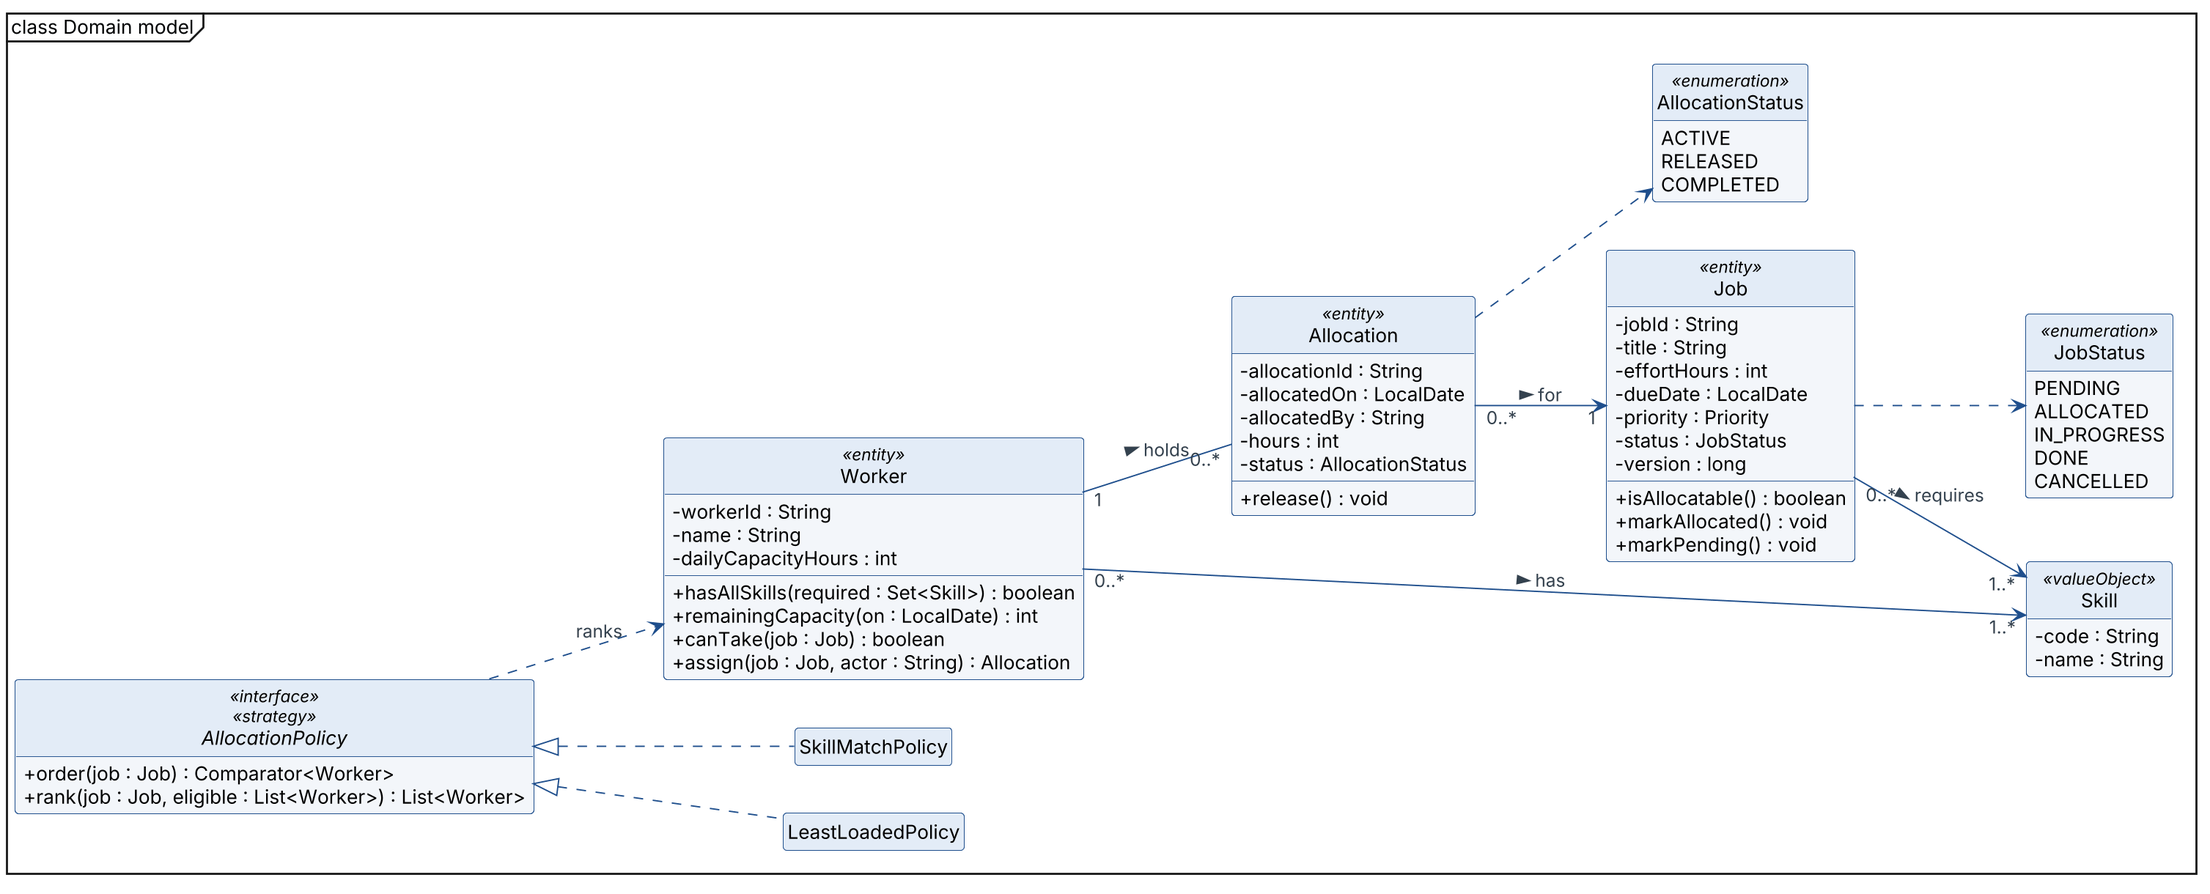
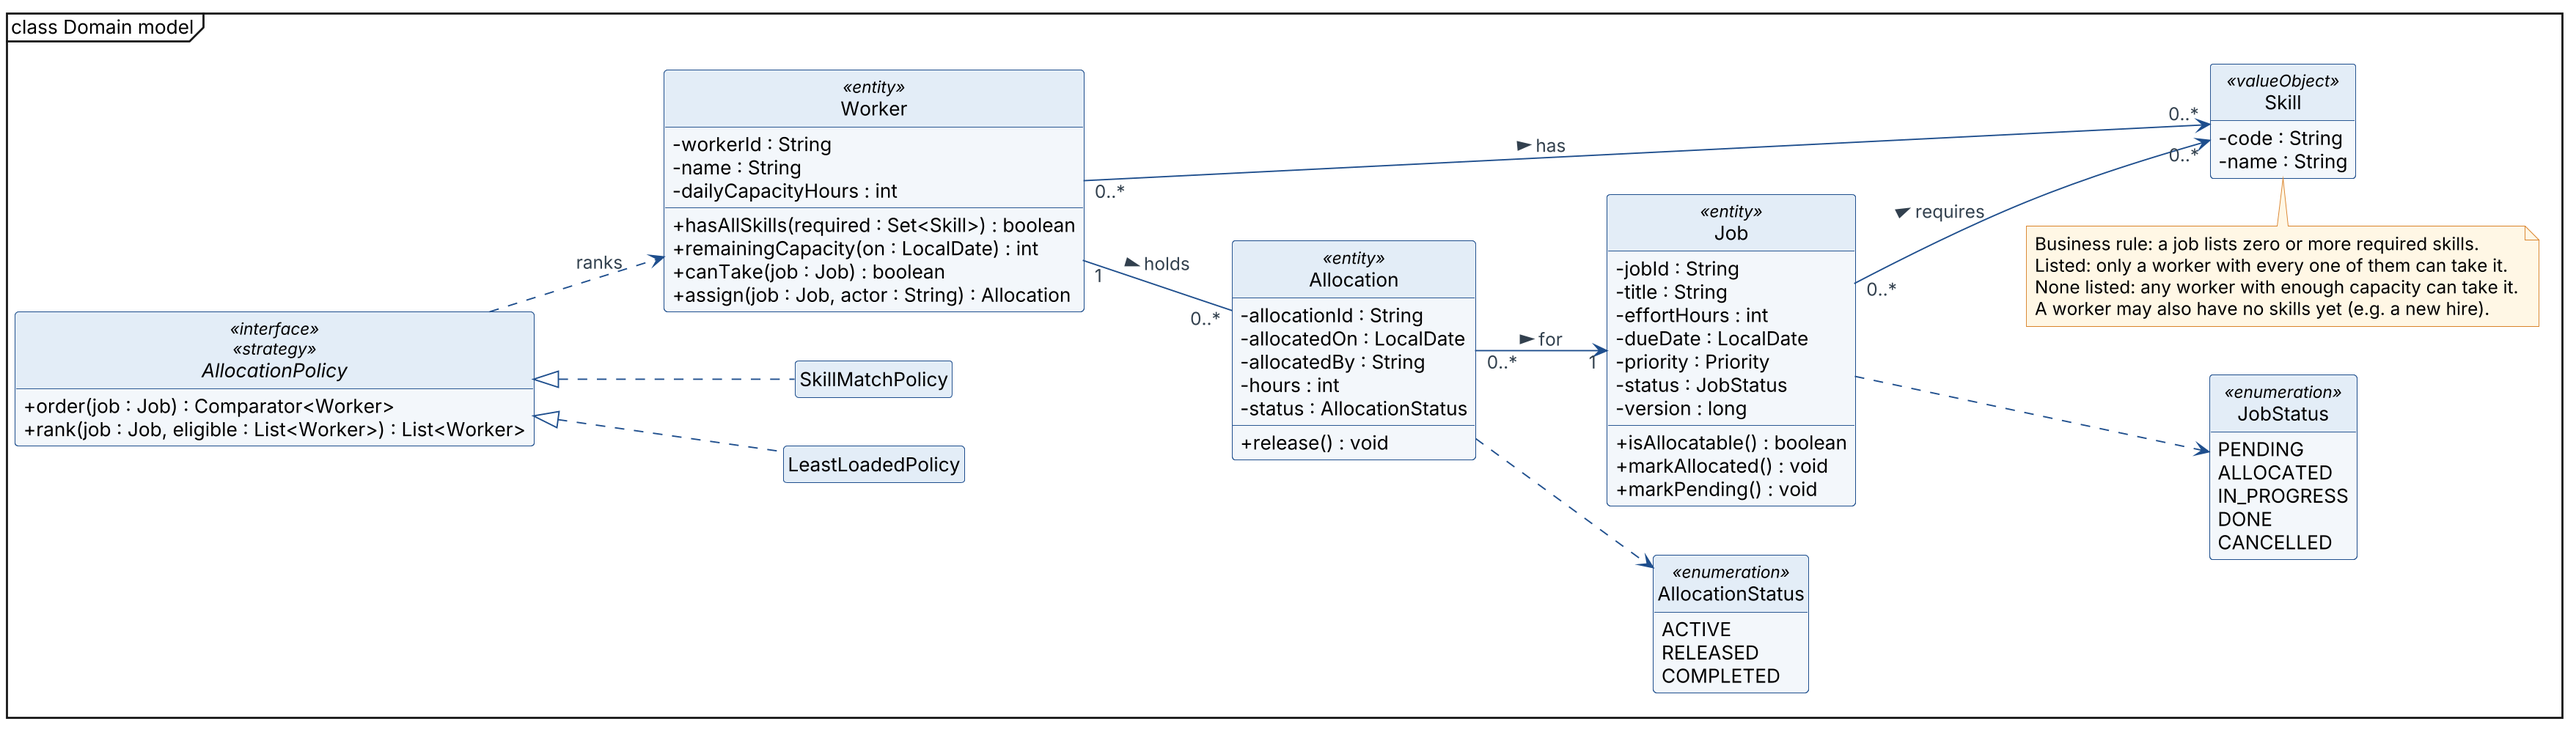
feat(domain): a job may require zero or more skills (0..*); state the rule in the model, walkthrough, slides and user guide

diff --git a/app/src/main/java/edu/ooad/joballoc/web/view/BoardView.java b/app/src/main/java/edu/ooad/joballoc/web/view/BoardView.java
@@ -24,6 +24,9 @@ import static edu.ooad.joballoc.web.view.Html.esc;
  */
 public final class BoardView {
 
+    /** Shown when a job requires no particular skill. */
+    static final String NO_SKILL_NEEDED = "no specific skill (any worker)";
+
     /** Everything the board needs: the filter, the snapshot from the facade, and flash messages. */
     public record Model(Actor actor, String csrf, JobCriteria criteria, BoardData data, String message, String error) {
         public LocalDate date() { return criteria.date(); }
@@ -97,6 +100,11 @@ public final class BoardView {
         return b.toString();
     }
 
+    /** Required skills for display; a job may require none (then any worker qualifies). */
+    static String skillsOrAny(Job j) {
+        return j.getRequiredSkills().isEmpty() ? NO_SKILL_NEEDED : String.join(", ", j.getRequiredSkills());
+    }
+
     /** Bootstrap badge colour per priority: the most urgent stands out. */
     private static String priorityBadge(Priority p) {
         String colour = switch (p) {
@@ -133,7 +141,7 @@ public final class BoardView {
                         .append(" in auto-allocate\"></td>");
             }
             b.append("<td class=\"nowrap fw-semibold\">").append(esc(j.getJobId())).append("</td><td>").append(esc(j.getTitle()))
-                    .append("</td><td class=\"d-none d-md-table-cell small\">").append(esc(String.join(", ", j.getRequiredSkills())))
+                    .append("</td><td class=\"d-none d-md-table-cell small\">").append(esc(skillsOrAny(j)))
                     .append("</td><td>").append(j.getEffortHours()).append("h</td><td class=\"nowrap d-none d-sm-table-cell\">")
                     .append(j.getDueDate()).append("</td><td>").append(priorityBadge(j.getPriority())).append("</td><td class=\"text-end\">")
                     .append("<a class=\"btn btn-sm ").append(sel ? "btn-primary" : "btn-outline-primary").append("\" href=\"")
@@ -162,7 +170,7 @@ public final class BoardView {
         Job j = m.selected();
         b.append(header("cand-h", "Eligible Workers for " + esc(j.getJobId()), null))
                 .append("<p class=\"small text-body-secondary px-3 pt-2 mb-2\">").append(esc(j.getTitle()))
-                .append(" · needs ").append(esc(String.join(", ", j.getRequiredSkills()))).append(" · ")
+                .append(" · needs ").append(esc(skillsOrAny(j))).append(" · ")
                 .append(j.getEffortHours()).append("h on ").append(j.getWorkDate()).append("</p>");
         b.append("<div class=\"table-responsive\"><table id=\"candidates\" class=\"table table-sm align-middle mb-0\">"
                 + "<thead class=\"table-light\"><tr><th scope=\"col\">Worker</th>"

diff --git a/app/src/test/java/edu/ooad/joballoc/domain/JobTest.java b/app/src/test/java/edu/ooad/joballoc/domain/JobTest.java
@@ -22,12 +22,19 @@ public class JobTest {
     }
 
     @Test
-    public void rejectsInvalidEffortAndMissingSkills() {
+    public void rejectsInvalidEffortAndId() {
         LocalDate d = LocalDate.of(2026, 11, 5);
         assertThrows(IllegalArgumentException.class, () -> new Job("J1", "t", Set.of("X"), 0, d, d, Priority.LOW));
         assertThrows(IllegalArgumentException.class, () -> new Job("J1", "t", Set.of("X"), 25, d, d, Priority.LOW));
-        assertThrows(IllegalArgumentException.class, () -> new Job("J1", "t", Set.of(), 2, d, d, Priority.LOW));
         assertThrows(IllegalArgumentException.class, () -> new Job(" ", "t", Set.of("X"), 2, d, d, Priority.LOW));
+        assertThrows(NullPointerException.class, () -> new Job("J1", "t", null, 2, d, d, Priority.LOW));
+    }
+
+    @Test
+    public void aJobMayRequireNoSkill() {
+        Job j = job("J1", 2, Priority.LOW);
+        assertTrue(j.getRequiredSkills().isEmpty());
+        assertTrue(j.isAllocatable());
     }
 
     @Test

diff --git a/app/src/test/java/edu/ooad/joballoc/storage/InMemoryStorageTest.java b/app/src/test/java/edu/ooad/joballoc/storage/InMemoryStorageTest.java
@@ -1,5 +1,6 @@
 package edu.ooad.joballoc.storage;
 
+import edu.ooad.joballoc.TestData;
 import edu.ooad.joballoc.config.AppConfig;
 import edu.ooad.joballoc.domain.AuditEvent;
 import edu.ooad.joballoc.domain.Job;
@@ -60,6 +61,13 @@ public class InMemoryStorageTest {
     private static List<String> ids(String sql, String regex) {
         Matcher m = Pattern.compile(regex).matcher(sql);
         return m.results().map(r -> r.group(1)).toList();
+    }
+
+    @Test
+    public void aJobThatRequiresNoSkillRoundTrips() {
+        DAOFactory daos = new InMemoryStorage().daos();
+        daos.jobDao().save(new Job("M-0", "General task", Set.of(), 1, TestData.DAY, TestData.DAY, Priority.LOW));
+        assertTrue(daos.jobDao().findById("M-0").orElseThrow().getRequiredSkills().isEmpty());
     }
 
     @Test

diff --git a/app/src/main/java/edu/ooad/joballoc/domain/Job.java b/app/src/main/java/edu/ooad/joballoc/domain/Job.java
@@ -48,9 +48,8 @@ public class Job {
         if (effortHours < 1 || effortHours > HOURS_PER_DAY) {
             throw new IllegalArgumentException("effortHours must be between 1 and " + HOURS_PER_DAY);
         }
-        if (requiredSkills == null || requiredSkills.isEmpty()) {
-            throw new IllegalArgumentException("a job needs at least one required skill");
-        }
+        // Business rule: a job may require no skill at all (0..*); then any worker with capacity can take it.
+        Objects.requireNonNull(requiredSkills, "requiredSkills (use an empty set when no skill is needed)");
         this.jobId = jobId;
         this.title = Objects.requireNonNull(title, "title");
         this.requiredSkills = new LinkedHashSet<>(requiredSkills);

diff --git a/app/src/test/java/edu/ooad/joballoc/domain/WorkerTest.java b/app/src/test/java/edu/ooad/joballoc/domain/WorkerTest.java
@@ -37,6 +37,19 @@ public class WorkerTest {
     }
 
     @Test
+    public void anyWorkerWithCapacityCanTakeAJobThatRequiresNoSkill() {
+        Job general = job("J1", 2, Priority.LOW);
+        assertTrue(worker("W1", 8).canTake(general));
+        assertTrue(worker("W2", 8, "LINUX").canTake(general));
+    }
+
+    @Test
+    public void aWorkerWithoutSkillsCannotTakeAJobThatRequiresOne() {
+        Worker trainee = worker("W1", 8);
+        assertFalse(trainee.canTake(job("J1", 2, Priority.LOW, "LINUX")));
+    }
+
+    @Test
     public void cannotExceedDailyCapacity() {
         Worker w = worker("W1", 6, "LINUX");
         w.assign(job("J1", 4, Priority.LOW, "LINUX"), "sam", now);

diff --git a/app/src/test/java/edu/ooad/joballoc/business/PolicyTest.java b/app/src/test/java/edu/ooad/joballoc/business/PolicyTest.java
@@ -41,6 +41,14 @@ public class PolicyTest {
     }
 
     @Test
+    public void skillMatchKeepsSpecialistsFreeForAJobThatRequiresNoSkill() {
+        Worker trainee = worker("W-T", 8);
+        Worker specialist = worker("W-S", 8, "DBA");
+        Job general = job("J", 2, Priority.LOW);
+        assertEquals(List.of("W-T", "W-S"), ids(factory.forName("SKILL_MATCH"), general, List.of(specialist, trainee)));
+    }
+
+    @Test
     public void factoryDefaultsAndRejectsUnknown() {
         assertEquals(PolicyFactory.DEFAULT, factory.forName(null).name());
         assertEquals(List.of("SKILL_MATCH", "LEAST_LOADED", "FIRST_FIT"), factory.names());

diff --git a/app/src/test/java/edu/ooad/joballoc/web/view/BoardViewTest.java b/app/src/test/java/edu/ooad/joballoc/web/view/BoardViewTest.java
@@ -1,0 +1,21 @@
+package edu.ooad.joballoc.web.view;
+
+import edu.ooad.joballoc.domain.Priority;
+import org.junit.Test;
+
+import static edu.ooad.joballoc.TestData.job;
+import static org.junit.Assert.assertEquals;
+
+/** The board states a job's skill requirement plainly, including "none". */
+public class BoardViewTest {
+
+    @Test
+    public void listsRequiredSkills() {
+        assertEquals("LINUX", BoardView.skillsOrAny(job("J1", 2, Priority.LOW, "LINUX")));
+    }
+
+    @Test
+    public void saysWhenAJobRequiresNoSkill() {
+        assertEquals(BoardView.NO_SKILL_NEEDED, BoardView.skillsOrAny(job("J1", 2, Priority.LOW)));
+    }
+}

diff --git a/app/src/test/java/edu/ooad/joballoc/it/PersistenceIT.java b/app/src/test/java/edu/ooad/joballoc/it/PersistenceIT.java
@@ -66,6 +66,12 @@ public class PersistenceIT {
     }
 
     @Test
+    public void aJobThatRequiresNoSkillRoundTrips() {
+        daos.jobDao().save(new Job("IT-0", "General task", Set.of(), 1, DAY, DAY, Priority.LOW));
+        assertTrue(daos.jobDao().findById("IT-0").orElseThrow().getRequiredSkills().isEmpty());
+    }
+
+    @Test
     public void mapsAllColumnTypesAndCollectionTables() {
         Job j = new Job("IT-1", "Map me", Set.of("LINUX", "GO"), 3, DAY, DAY.plusDays(2), Priority.HIGH);
         daos.jobDao().save(j);

diff --git a/app/src/test/java/edu/ooad/joballoc/AllUnitTests.java b/app/src/test/java/edu/ooad/joballoc/AllUnitTests.java
@@ -15,6 +15,7 @@ import org.junit.runners.Suite;
         edu.ooad.joballoc.web.WebUnitTest.class,
         edu.ooad.joballoc.web.http.HttpLayerTest.class,
         edu.ooad.joballoc.web.view.StaticAssetsTest.class,
+        edu.ooad.joballoc.web.view.BoardViewTest.class,
         edu.ooad.joballoc.web.sso.IdTokenVerifierTest.class,
         edu.ooad.joballoc.persistence.ConnectionPoolTest.class,
         edu.ooad.joballoc.persistence.DialectTest.class,

diff --git a/docs/ooad-walkthrough.md b/docs/ooad-walkthrough.md
@@ -35,10 +35,12 @@ Rule: dependencies point downward only.
 
 ## 3. Operation contract: `allocate(jobId, workerId, jobVersion, actor) : Allocation`
 
+**Business rule (skills).** A job states whether it needs particular skills: it may list zero or more required skills. If it lists any, only a worker who has every one of them can take it. If it lists none, the job needs no specific skill and any worker with enough remaining capacity can take it. A worker may likewise have zero or more skills (a new hire may have none yet), so both associations are `0..*` in the domain model.
+
 **Pre-conditions**
 
 - The job exists and its status is PENDING.
-- The worker has every required skill.
+- The worker has every skill the job requires (trivially true when the job requires none).
 - The worker's remaining capacity is at least the job's effort.
 - The actor holds the SUPERVISOR role.
 - `jobVersion` matches the stored version.
@@ -143,7 +145,7 @@ How the design achieves this:
 4. **Dependency inversion**: services depend on `DAOFactory`, the DAO interfaces and `TransactionRunner`, all owned by the business tier; `ArchitectureTest` fails the build if any business class imports a storage implementation.
 5. **Fail fast**: any other `DB_URL` (for example Oracle) is rejected at start-up with the list of supported forms.
 
-Evidence that the switch works: the same 34 integration tests pass on PostgreSQL 16 and MySQL 8.4, and 22 HTTP/API tests pass on in-memory storage (`make test-int-all`); `make db-copy` copies all data between any two storages. Diagrams: `27-sql-dialect`, `28-storage-family`; slides "One codebase, two databases" and "Three storages, one switch".
+Evidence that the switch works: the same 35 integration tests pass on PostgreSQL 16 and MySQL 8.4, and 22 HTTP/API tests pass on in-memory storage (`make test-int-all`); `make db-copy` copies all data between any two storages. Diagrams: `27-sql-dialect`, `28-storage-family`; slides "One codebase, two databases" and "Three storages, one switch".
 
 **Discussion:** what would adding Oracle need? (One dialect class, one entry in `DialectFactory`, one folder of migrations, the driver jar and its licence entry; the tests then run against it unchanged.)
 

diff --git a/app/README.md b/app/README.md
@@ -27,9 +27,9 @@ No Docker? Install PostgreSQL 14+ locally and run `make db-setup` once instead.
 
 | Command | What it does |
 |---|---|
-| `make test` | 80 unit tests: domain rules, policies, service contracts, proxy chain, security, HTTP layer, Singleton, configuration, OpenAPI contract, architecture and naming rules, pinned UI assets and CSP-safe views, SQL dialects, migration splitting, in-memory storage (rollback, thread safety, seed drift), data copy, ID-token verification, SSO account linking (no database) |
-| `make test-int` | 34 integration tests against PostgreSQL: ORM, optimistic locking, append-only audit, migration checksums, data copy, HTTP API, OWASP checks, login CSRF, SSO against a test identity provider |
-| `make test-int-mysql` / `test-int-memory` / `test-int-all` | The same tests on MySQL (34) / in memory (22, SQL-only tests skipped) / on all three |
+| `make test` | 87 unit tests: domain rules, policies, service contracts, proxy chain, security, HTTP layer, Singleton, configuration, OpenAPI contract, architecture and naming rules, pinned UI assets and CSP-safe views, SQL dialects, migration splitting, in-memory storage (rollback, thread safety, seed drift), data copy, ID-token verification, SSO account linking (no database) |
+| `make test-int` | 35 integration tests against PostgreSQL: ORM, optimistic locking, append-only audit, migration checksums, data copy, HTTP API, OWASP checks, login CSRF, SSO against a test identity provider |
+| `make test-int-mysql` / `test-int-memory` / `test-int-all` | The same tests on MySQL (35) / in memory (22, SQL-only tests skipped) / on all three |
 | `make e2e` | 4 Playwright browser tests in Chrome, including a 390 px phone viewport (starts and stops the app itself) |
 | `make check` | Quality gate without a database: Checkstyle conventions, unit tests, Rego policies, OpenAPI lint, secret-leak scan, SAST, governance (run before every commit) |
 | `make lint` / `make policy` / `make api-lint` | Coding conventions / policy as code / OpenAPI lint (`make tools` fetches the pinned tools first; Spectral needs Node.js) |

diff --git a/slides/ooad-3tier-patterns.md b/slides/ooad-3tier-patterns.md
@@ -145,7 +145,7 @@ Shaped by what the screen shows, not by the tables. Carry the job version for op
 | Pre-conditions | Post-conditions |
 |---|---|
 | Job exists and status = PENDING | Allocation created (ACTIVE), linked to Job and Worker |
-| Worker has every required skill | `Job.status` = ALLOCATED; version incremented |
+| Worker has every skill the job requires (a job may require none) | `Job.status` = ALLOCATED; version incremented |
 | Remaining capacity ≥ job effort | Audit event JOB_ALLOCATED appended |
 | Actor holds the SUPERVISOR role | On any failure: no state change → 409 / 422 |
 | `jobVersion` matches the stored version | |
@@ -722,7 +722,7 @@ Enforced by `make lint` (form) and `NamingConventionTest` (role).
 
 - `DB_URL` prefix → **`DialectFactory`** → `PostgresDialect` or `MySqlDialect`
 - **Strategy** = only what differs: scripts, duplicate-key code, UTC session, first-rows clause
-- The rest is **portable SQL**; the same 34 integration tests pass on **both**
+- The rest is **portable SQL**; the same 35 integration tests pass on **both**
 - `memory:` runs no SQL, so no dialect: `StorageFactory` picks it first (slide 44)
 
 ---
